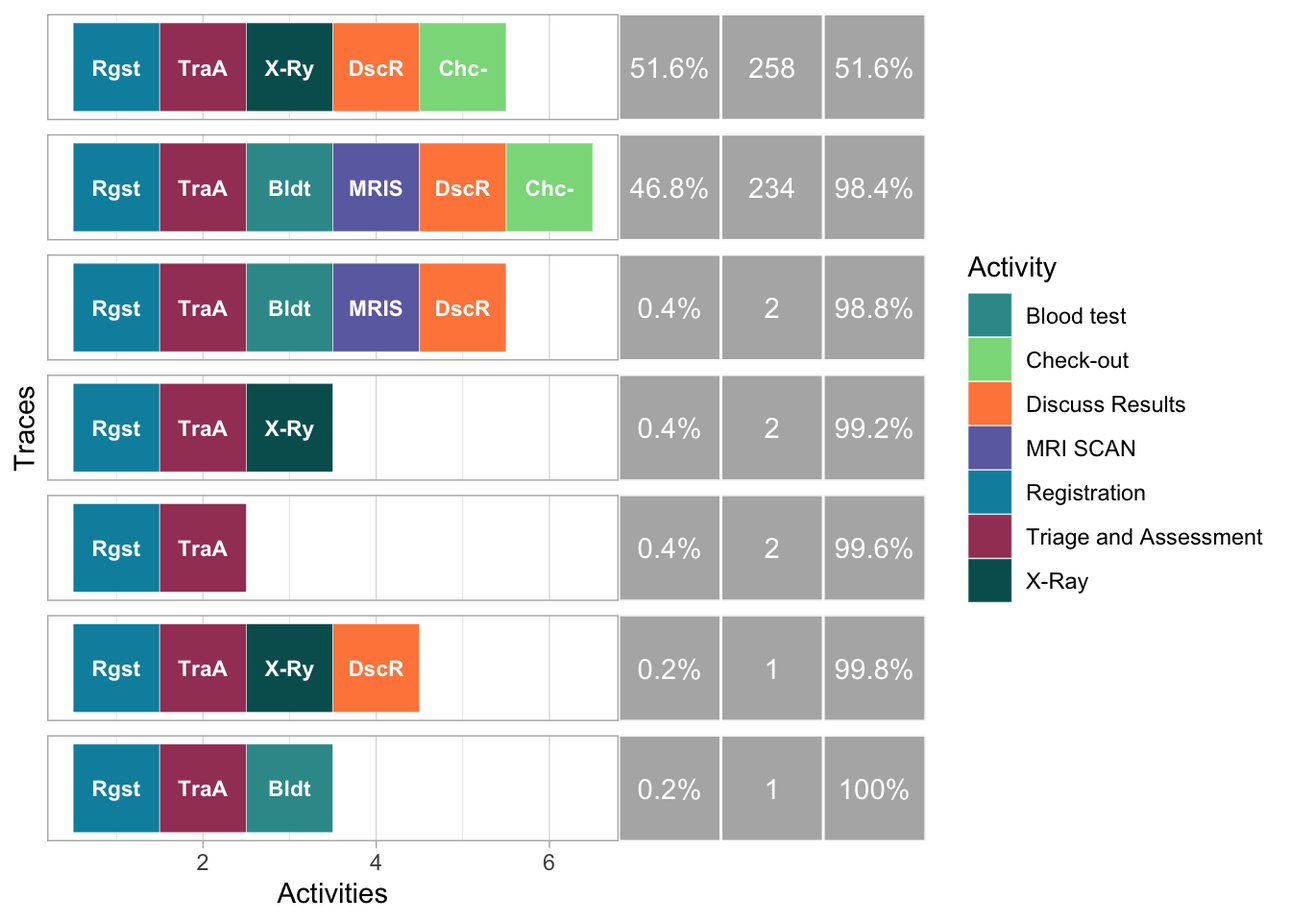
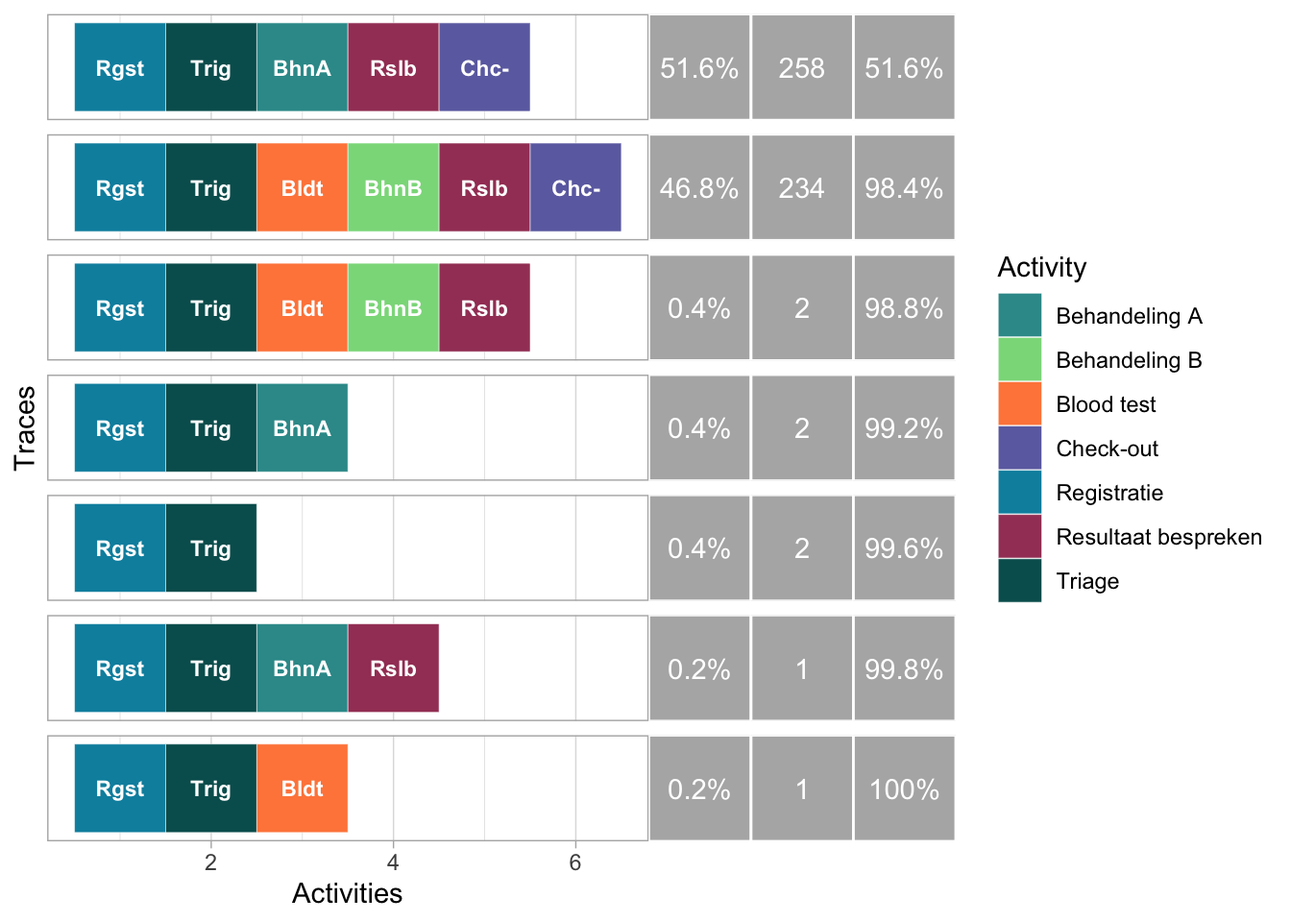
changed mri scan and x-ray to behandeling a and b

diff --git a/process-mining-story.html b/process-mining-story.html
@@ -2,7 +2,7 @@
 <html xmlns="http://www.w3.org/1999/xhtml" lang="en" xml:lang="en"><head>
 
 <meta charset="utf-8">
-<meta name="generator" content="quarto-1.3.353">
+<meta name="generator" content="quarto-1.3.450">
 
 <meta name="viewport" content="width=device-width, initial-scale=1.0, user-scalable=yes">
 
@@ -41,10 +41,28 @@ ul.task-list li input[type="checkbox"] {
 
 </head>
 
-<body class="fullcontent">
+<body>
 
 <div id="quarto-content" class="page-columns page-rows-contents page-layout-article">
-
+<div id="quarto-margin-sidebar" class="sidebar margin-sidebar">
+  <nav id="TOC" role="doc-toc" class="toc-active">
+    <h2 id="toc-title">Table of contents</h2>
+   
+  <ul>
+  <li><a href="#casus" id="toc-casus" class="nav-link active" data-scroll-target="#casus">Casus</a></li>
+  <li><a href="#analyse-met-behulp-van-process-mining" id="toc-analyse-met-behulp-van-process-mining" class="nav-link" data-scroll-target="#analyse-met-behulp-van-process-mining">Analyse met behulp van Process Mining</a>
+  <ul class="collapse">
+  <li><a href="#eisen" id="toc-eisen" class="nav-link" data-scroll-target="#eisen">Eisen</a></li>
+  <li><a href="#analyse" id="toc-analyse" class="nav-link" data-scroll-target="#analyse">Analyse</a></li>
+  <li><a href="#conformance-checking" id="toc-conformance-checking" class="nav-link" data-scroll-target="#conformance-checking">Conformance checking</a></li>
+  </ul></li>
+  <li><a href="#conclusie" id="toc-conclusie" class="nav-link" data-scroll-target="#conclusie">Conclusie</a>
+  <ul class="collapse">
+  <li><a href="#overige-toepassingen" id="toc-overige-toepassingen" class="nav-link" data-scroll-target="#overige-toepassingen">Overige toepassingen</a></li>
+  </ul></li>
+  </ul>
+</nav>
+</div>
 <main class="content" id="quarto-document-content">
 
 <header id="title-block-header" class="quarto-title-block default">
@@ -90,59 +108,53 @@ ul.task-list li input[type="checkbox"] {
 <p>Paul wil graag weten welke stappen worden ondernomen wanneer een patiënt op de eerste hulp belandt. Is er sprake van standaardroutes die patiënten volgen, zijn er onverwachte uitzonderingen? Wat is de meest gangbare route? Om hier inzicht in te krijgen, maken we gebruik van een process map. Deze visualiseert niet alleen het aantal patiënten dat een specifieke handeling ondergaat, maar geeft tevens de opeenvolging van handelingen weer. Zo verkrijgen we helderheid over de gebruikelijke gang van zaken en eventuele variaties in het proces.</p>
 <div class="cell">
 <div class="cell-output-display">
-<div class="grViz html-widget html-fill-item" id="htmlwidget-615307686efc645fae80" style="width:100%;height:464px;"></div>
-<script type="application/json" data-for="htmlwidget-615307686efc645fae80">{"x":{"diagram":"digraph {\n\ngraph [layout = \"dot\",\n       outputorder = \"edgesfirst\",\n       bgcolor = \"white\",\n       rankdir = \"LR\"]\n\nnode [fontname = \"Helvetica\",\n      fontsize = \"10\",\n      shape = \"circle\",\n      fixedsize = \"true\",\n      width = \"0.5\",\n      style = \"filled\",\n      fillcolor = \"aliceblue\",\n      color = \"gray70\",\n      fontcolor = \"gray50\"]\n\nedge [fontname = \"Helvetica\",\n     fontsize = \"8\",\n     weight = \"1.5\",\n     color = \"gray80\",\n     arrowsize = \"0.5\"]\n\n  \"1\" [label = \"End\", shape = \"circle\", style = \"rounded,filled\", fontcolor = \"brown4\", color = \"brown4\", tooltip = \"ARTIFICIAL_END\n100%\", penwidth = \"1.5\", fixedsize = \"FALSE\", fontname = \"Arial\", fontsize = \"10\", fillcolor = \"#FFFFFF\"] \n  \"2\" [label = \"Start\", shape = \"circle\", style = \"rounded,filled\", fontcolor = \"chartreuse4\", color = \"chartreuse4\", tooltip = \"ARTIFICIAL_START\n100%\", penwidth = \"1.5\", fixedsize = \"FALSE\", fontname = \"Arial\", fontsize = \"10\", fillcolor = \"#FFFFFF\"] \n  \"3\" [label = \"Blood test\n47.4%\", shape = \"rectangle\", style = \"rounded,filled\", fontcolor = \"black\", color = \"grey\", tooltip = \"Blood test\n47.4%\", penwidth = \"1.5\", fixedsize = \"FALSE\", fontname = \"Arial\", fontsize = \"10\", fillcolor = \"#ECE7F2\"] \n  \"4\" [label = \"Check-out\n98.4%\", shape = \"rectangle\", style = \"rounded,filled\", fontcolor = \"white\", color = \"grey\", tooltip = \"Check-out\n98.4%\", penwidth = \"1.5\", fixedsize = \"FALSE\", fontname = \"Arial\", fontsize = \"10\", fillcolor = \"#0570B0\"] \n  \"5\" [label = \"Discuss Results\n99%\", shape = \"rectangle\", style = \"rounded,filled\", fontcolor = \"white\", color = \"grey\", tooltip = \"Discuss Results\n99%\", penwidth = \"1.5\", fixedsize = \"FALSE\", fontname = \"Arial\", fontsize = \"10\", fillcolor = \"#0570B0\"] \n  \"6\" [label = \"MRI SCAN\n47.2%\", shape = \"rectangle\", style = \"rounded,filled\", fontcolor = \"black\", color = \"grey\", tooltip = \"MRI SCAN\n47.2%\", penwidth = \"1.5\", fixedsize = \"FALSE\", fontname = \"Arial\", fontsize = \"10\", fillcolor = \"#ECE7F2\"] \n  \"7\" [label = \"Registration\n100%\", shape = \"rectangle\", style = \"rounded,filled\", fontcolor = \"white\", color = \"grey\", tooltip = \"Registration\n100%\", penwidth = \"1.5\", fixedsize = \"FALSE\", fontname = \"Arial\", fontsize = \"10\", fillcolor = \"#0570B0\"] \n  \"8\" [label = \"Triage and Assessment\n100%\", shape = \"rectangle\", style = \"rounded,filled\", fontcolor = \"white\", color = \"grey\", tooltip = \"Triage and Assessment\n100%\", penwidth = \"1.5\", fixedsize = \"FALSE\", fontname = \"Arial\", fontsize = \"10\", fillcolor = \"#0570B0\"] \n  \"9\" [label = \"X-Ray\n52.2%\", shape = \"rectangle\", style = \"rounded,filled\", fontcolor = \"black\", color = \"grey\", tooltip = \"X-Ray\n52.2%\", penwidth = \"1.5\", fixedsize = \"FALSE\", fontname = \"Arial\", fontsize = \"10\", fillcolor = \"#ECE7F2\"] \n\"2\"->\"7\" [label = \"100%\", penwidth = \"5\", color = \"dodgerblue4\", fontname = \"Arial\", fontsize = \"10\", weight = \"1\", constraint = \"TRUE\"] \n\"3\"->\"1\" [label = \"0.2%\", penwidth = \"1.008\", color = \"dodgerblue4\", fontname = \"Arial\", fontsize = \"10\", weight = \"1\", constraint = \"TRUE\"] \n\"3\"->\"6\" [label = \"47.2%\", penwidth = \"2.888\", color = \"dodgerblue4\", fontname = \"Arial\", fontsize = \"10\", weight = \"1\", constraint = \"TRUE\"] \n\"4\"->\"1\" [label = \"98.4%\", penwidth = \"4.936\", color = \"dodgerblue4\", fontname = \"Arial\", fontsize = \"10\", weight = \"1\", constraint = \"TRUE\"] \n\"5\"->\"1\" [label = \"0.6%\", penwidth = \"1.024\", color = \"dodgerblue4\", fontname = \"Arial\", fontsize = \"10\", weight = \"1\", constraint = \"TRUE\"] \n\"5\"->\"4\" [label = \"98.4%\", penwidth = \"4.936\", color = \"dodgerblue4\", fontname = \"Arial\", fontsize = \"10\", weight = \"1\", constraint = \"TRUE\"] \n\"6\"->\"5\" [label = \"47.2%\", penwidth = \"2.888\", color = \"dodgerblue4\", fontname = \"Arial\", fontsize = \"10\", weight = \"1\", constraint = \"TRUE\"] \n\"7\"->\"8\" [label = \"100%\", penwidth = \"5\", color = \"dodgerblue4\", fontname = \"Arial\", fontsize = \"10\", weight = \"1\", constraint = \"TRUE\"] \n\"8\"->\"1\" [label = \"0.4%\", penwidth = \"1.016\", color = \"dodgerblue4\", fontname = \"Arial\", fontsize = \"10\", weight = \"1\", constraint = \"TRUE\"] \n\"8\"->\"3\" [label = \"47.4%\", penwidth = \"2.896\", color = \"dodgerblue4\", fontname = \"Arial\", fontsize = \"10\", weight = \"1\", constraint = \"TRUE\"] \n\"8\"->\"9\" [label = \"52.2%\", penwidth = \"3.088\", color = \"dodgerblue4\", fontname = \"Arial\", fontsize = \"10\", weight = \"1\", constraint = \"TRUE\"] \n\"9\"->\"1\" [label = \"0.4%\", penwidth = \"1.016\", color = \"dodgerblue4\", fontname = \"Arial\", fontsize = \"10\", weight = \"1\", constraint = \"TRUE\"] \n\"9\"->\"5\" [label = \"51.8%\", penwidth = \"3.072\", color = \"dodgerblue4\", fontname = \"Arial\", fontsize = \"10\", weight = \"1\", constraint = \"TRUE\"] \n}","config":{"engine":"dot","options":null}},"evals":[],"jsHooks":[]}</script>
+<div class="grViz html-widget html-fill-item" id="htmlwidget-6573e6e53d52da34f62b" style="width:100%;height:464px;"></div>
+<script type="application/json" data-for="htmlwidget-6573e6e53d52da34f62b">{"x":{"diagram":"digraph {\n\ngraph [layout = \"dot\",\n       outputorder = \"edgesfirst\",\n       bgcolor = \"white\",\n       rankdir = \"LR\"]\n\nnode [fontname = \"Helvetica\",\n      fontsize = \"10\",\n      shape = \"circle\",\n      fixedsize = \"true\",\n      width = \"0.5\",\n      style = \"filled\",\n      fillcolor = \"aliceblue\",\n      color = \"gray70\",\n      fontcolor = \"gray50\"]\n\nedge [fontname = \"Helvetica\",\n     fontsize = \"8\",\n     weight = \"1.5\",\n     color = \"gray80\",\n     arrowsize = \"0.5\"]\n\n  \"1\" [label = \"End\", shape = \"circle\", style = \"rounded,filled\", fontcolor = \"brown4\", color = \"brown4\", tooltip = \"ARTIFICIAL_END\n18.38%\", penwidth = \"1.5\", fixedsize = \"FALSE\", fontname = \"Arial\", fontsize = \"10\", fillcolor = \"#FFFFFF\"] \n  \"2\" [label = \"Start\", shape = \"circle\", style = \"rounded,filled\", fontcolor = \"chartreuse4\", color = \"chartreuse4\", tooltip = \"ARTIFICIAL_START\n18.38%\", penwidth = \"1.5\", fixedsize = \"FALSE\", fontname = \"Arial\", fontsize = \"10\", fillcolor = \"#FFFFFF\"] \n  \"3\" [label = \"Behandeling A\n9.59%\", shape = \"rectangle\", style = \"rounded,filled\", fontcolor = \"black\", color = \"grey\", tooltip = \"Behandeling A\n9.59%\", penwidth = \"1.5\", fixedsize = \"FALSE\", fontname = \"Arial\", fontsize = \"10\", fillcolor = \"#ECE7F2\"] \n  \"4\" [label = \"Behandeling B\n8.67%\", shape = \"rectangle\", style = \"rounded,filled\", fontcolor = \"black\", color = \"grey\", tooltip = \"Behandeling B\n8.67%\", penwidth = \"1.5\", fixedsize = \"FALSE\", fontname = \"Arial\", fontsize = \"10\", fillcolor = \"#ECE7F2\"] \n  \"5\" [label = \"Blood test\n8.71%\", shape = \"rectangle\", style = \"rounded,filled\", fontcolor = \"black\", color = \"grey\", tooltip = \"Blood test\n8.71%\", penwidth = \"1.5\", fixedsize = \"FALSE\", fontname = \"Arial\", fontsize = \"10\", fillcolor = \"#ECE7F2\"] \n  \"6\" [label = \"Check-out\n18.08%\", shape = \"rectangle\", style = \"rounded,filled\", fontcolor = \"white\", color = \"grey\", tooltip = \"Check-out\n18.08%\", penwidth = \"1.5\", fixedsize = \"FALSE\", fontname = \"Arial\", fontsize = \"10\", fillcolor = \"#0570B0\"] \n  \"7\" [label = \"Registratie\n18.38%\", shape = \"rectangle\", style = \"rounded,filled\", fontcolor = \"white\", color = \"grey\", tooltip = \"Registratie\n18.38%\", penwidth = \"1.5\", fixedsize = \"FALSE\", fontname = \"Arial\", fontsize = \"10\", fillcolor = \"#0570B0\"] \n  \"8\" [label = \"Resultaat bespreken\n18.19%\", shape = \"rectangle\", style = \"rounded,filled\", fontcolor = \"white\", color = \"grey\", tooltip = \"Resultaat bespreken\n18.19%\", penwidth = \"1.5\", fixedsize = \"FALSE\", fontname = \"Arial\", fontsize = \"10\", fillcolor = \"#0570B0\"] \n  \"9\" [label = \"Triage\n18.38%\", shape = \"rectangle\", style = \"rounded,filled\", fontcolor = \"white\", color = \"grey\", tooltip = \"Triage\n18.38%\", penwidth = \"1.5\", fixedsize = \"FALSE\", fontname = \"Arial\", fontsize = \"10\", fillcolor = \"#0570B0\"] \n\"2\"->\"7\" [label = \"100%\", penwidth = \"5\", color = \"dodgerblue4\", fontname = \"Arial\", fontsize = \"10\", weight = \"1\", constraint = \"TRUE\"] \n\"3\"->\"1\" [label = \"0.77%\", penwidth = \"1.03065134099617\", color = \"dodgerblue4\", fontname = \"Arial\", fontsize = \"10\", weight = \"1\", constraint = \"TRUE\"] \n\"3\"->\"8\" [label = \"99.23%\", penwidth = \"4.96934865900383\", color = \"dodgerblue4\", fontname = \"Arial\", fontsize = \"10\", weight = \"1\", constraint = \"TRUE\"] \n\"4\"->\"8\" [label = \"100%\", penwidth = \"5\", color = \"dodgerblue4\", fontname = \"Arial\", fontsize = \"10\", weight = \"1\", constraint = \"TRUE\"] \n\"5\"->\"1\" [label = \"0.42%\", penwidth = \"1.0168776371308\", color = \"dodgerblue4\", fontname = \"Arial\", fontsize = \"10\", weight = \"1\", constraint = \"TRUE\"] \n\"5\"->\"4\" [label = \"99.58%\", penwidth = \"4.9831223628692\", color = \"dodgerblue4\", fontname = \"Arial\", fontsize = \"10\", weight = \"1\", constraint = \"TRUE\"] \n\"6\"->\"1\" [label = \"100%\", penwidth = \"5\", color = \"dodgerblue4\", fontname = \"Arial\", fontsize = \"10\", weight = \"1\", constraint = \"TRUE\"] \n\"7\"->\"9\" [label = \"100%\", penwidth = \"5\", color = \"dodgerblue4\", fontname = \"Arial\", fontsize = \"10\", weight = \"1\", constraint = \"TRUE\"] \n\"8\"->\"1\" [label = \"0.61%\", penwidth = \"1.02424242424242\", color = \"dodgerblue4\", fontname = \"Arial\", fontsize = \"10\", weight = \"1\", constraint = \"TRUE\"] \n\"8\"->\"6\" [label = \"99.39%\", penwidth = \"4.97575757575758\", color = \"dodgerblue4\", fontname = \"Arial\", fontsize = \"10\", weight = \"1\", constraint = \"TRUE\"] \n\"9\"->\"1\" [label = \"0.4%\", penwidth = \"1.016\", color = \"dodgerblue4\", fontname = \"Arial\", fontsize = \"10\", weight = \"1\", constraint = \"TRUE\"] \n\"9\"->\"3\" [label = \"52.2%\", penwidth = \"3.088\", color = \"dodgerblue4\", fontname = \"Arial\", fontsize = \"10\", weight = \"1\", constraint = \"TRUE\"] \n\"9\"->\"5\" [label = \"47.4%\", penwidth = \"2.896\", color = \"dodgerblue4\", fontname = \"Arial\", fontsize = \"10\", weight = \"1\", constraint = \"TRUE\"] \n}","config":{"engine":"dot","options":null}},"evals":[],"jsHooks":[]}</script>
 </div>
 </div>
 <p><strong>Figuur 1. Process map met het percentage patiënten dat een bepaalde handeling ondergaat</strong></p>
-<p>Uit deze process map valt direct veel informatie te halen. We zien dat iedere patiënt geregistreerd wordt en triage en assessment ondergaat. Na de triage blijkt dat een patiënt ofwel een bloedtest en een MRI-scan krijgt, of een X-ray ondergaat. Opvallend voor Paul is dat ongeveer evenveel mensen een MRI-scan als een X-ray krijgen, in tegenstelling tot wat hij had verwacht. MRI scans zouden alleen ingezte moeten worden wanneer strict noodzakelijk, aangezien een MRI-scan aanzienlijk duurder is voor het ziekenhuis en ook meer tijd kost. Nadat Paul dit bespreekt met zijn collega’s bij Triage en Assessment, ontdekt hij dat de X-ray afdeling onderbezet is, terwijl het op de MRI-afdeling doorgaans rustiger is. Bovendien wordt er geklaagd over de kwaliteit van het X-ray apparaat. Door de patiënten te verdelen over de Xray en MRI afdeling, probeerden zijn collegas de wachttijd al te beperken.</p>
+<p>Uit deze process map valt direct veel informatie te halen. We zien dat iedere patiënt geregistreerd wordt en triage ondergaat. Na de triage blijkt dat een patiënt ofwel een bloedtest en behandeling A krijgt, of behandeling B. Opvallend voor Paul is dat ongeveer evenveel mensen behandeling A als behandeling B krijgen, in tegenstelling tot wat hij had verwacht. Behandeling B zou alleen ingezet moeten worden wanneer strict noodzakelijk, aangezien Behandeling B aanzienlijk duurder is voor het ziekenhuis en ook meer tijd kost. Nadat Paul dit bespreekt met zijn collega’s, ontdekt hij dat afdeling van Behandeling A onderbezet is, terwijl het op de afdeling van Behandeling B doorgaans rustiger is. Bovendien wordt er geklaagd over de kwaliteit van de medische apparatuur op de afdeling van Behandeling A. Door de patiënten te verdelen over de afdelingen van Behandeling A en B, probeerden zijn collega’s de wachttijd al te beperken.</p>
 <p>Nu Paul een beeld heeft van de volgorde en frequentie van de activiteiten op de eerste hulp, is hij benieuwd naar welke activiteiten de meeste tijd in beslag nemen en op welke activiteiten patiënten lang moeten wachten. Om deze informatie te verkrijgen, maken we gebruik van een process map waarin de gemiddelde duur van de activiteiten wordt weergegeven.</p>
 <div class="cell">
 <div class="cell-output-display">
-<div class="grViz html-widget html-fill-item" id="htmlwidget-aebe7d86149e7d14c312" style="width:100%;height:464px;"></div>
-<script type="application/json" data-for="htmlwidget-aebe7d86149e7d14c312">{"x":{"diagram":"digraph {\n\ngraph [layout = \"dot\",\n       outputorder = \"edgesfirst\",\n       bgcolor = \"white\",\n       rankdir = \"LR\"]\n\nnode [fontname = \"Helvetica\",\n      fontsize = \"10\",\n      shape = \"circle\",\n      fixedsize = \"true\",\n      width = \"0.5\",\n      style = \"filled\",\n      fillcolor = \"aliceblue\",\n      color = \"gray70\",\n      fontcolor = \"gray50\"]\n\nedge [fontname = \"Helvetica\",\n     fontsize = \"8\",\n     weight = \"1.5\",\n     color = \"gray80\",\n     arrowsize = \"0.5\"]\n\n  \"1\" [label = \"End\", shape = \"circle\", style = \"rounded,filled\", fontcolor = \"brown4\", color = \"brown4\", tooltip = \"ARTIFICIAL_END\n0 hours\", penwidth = \"1.5\", fixedsize = \"FALSE\", fontname = \"Arial\", fontsize = \"10\", fillcolor = \"#FFFFFF\"] \n  \"2\" [label = \"Start\", shape = \"circle\", style = \"rounded,filled\", fontcolor = \"chartreuse4\", color = \"chartreuse4\", tooltip = \"ARTIFICIAL_START\n0 hours\", penwidth = \"1.5\", fixedsize = \"FALSE\", fontname = \"Arial\", fontsize = \"10\", fillcolor = \"#FFFFFF\"] \n  \"3\" [label = \"Blood test\n5.54 hours\n(237)\", shape = \"rectangle\", style = \"rounded,filled\", fontcolor = \"black\", color = \"grey\", tooltip = \"Blood test\n5.54 hours\", penwidth = \"1.5\", fixedsize = \"FALSE\", fontname = \"Arial\", fontsize = \"10\", fillcolor = \"#FCBBA1\"] \n  \"4\" [label = \"Check-out\n2.06 hours\n(492)\", shape = \"rectangle\", style = \"rounded,filled\", fontcolor = \"black\", color = \"grey\", tooltip = \"Check-out\n2.06 hours\", penwidth = \"1.5\", fixedsize = \"FALSE\", fontname = \"Arial\", fontsize = \"10\", fillcolor = \"#FFF5F0\"] \n  \"5\" [label = \"Discuss Results\n2.78 hours\n(495)\", shape = \"rectangle\", style = \"rounded,filled\", fontcolor = \"black\", color = \"grey\", tooltip = \"Discuss Results\n2.78 hours\", penwidth = \"1.5\", fixedsize = \"FALSE\", fontname = \"Arial\", fontsize = \"10\", fillcolor = \"#FEE0D2\"] \n  \"6\" [label = \"MRI SCAN\n4.15 hours\n(236)\", shape = \"rectangle\", style = \"rounded,filled\", fontcolor = \"black\", color = \"grey\", tooltip = \"MRI SCAN\n4.15 hours\", penwidth = \"1.5\", fixedsize = \"FALSE\", fontname = \"Arial\", fontsize = \"10\", fillcolor = \"#FEE0D2\"] \n  \"7\" [label = \"Registration\n2.75 hours\n(500)\", shape = \"rectangle\", style = \"rounded,filled\", fontcolor = \"black\", color = \"grey\", tooltip = \"Registration\n2.75 hours\", penwidth = \"1.5\", fixedsize = \"FALSE\", fontname = \"Arial\", fontsize = \"10\", fillcolor = \"#FEE0D2\"] \n  \"8\" [label = \"Triage and Assessment\n13.11 hours\n(500)\", shape = \"rectangle\", style = \"rounded,filled\", fontcolor = \"white\", color = \"grey\", tooltip = \"Triage and Assessment\n13.11 hours\", penwidth = \"1.5\", fixedsize = \"FALSE\", fontname = \"Arial\", fontsize = \"10\", fillcolor = \"#99000D\"] \n  \"9\" [label = \"X-Ray\n4.85 hours\n(261)\", shape = \"rectangle\", style = \"rounded,filled\", fontcolor = \"black\", color = \"grey\", tooltip = \"X-Ray\n4.85 hours\", penwidth = \"1.5\", fixedsize = \"FALSE\", fontname = \"Arial\", fontsize = \"10\", fillcolor = \"#FCBBA1\"] \n\"2\"->\"7\" [label = \" \n (500)\", penwidth = \"1\", color = \"red4\", fontname = \"Arial\", fontsize = \"10\", weight = \"1\", constraint = \"TRUE\"] \n\"3\"->\"1\" [label = \" \n (1)\", penwidth = \"1\", color = \"red4\", fontname = \"Arial\", fontsize = \"10\", weight = \"1\", constraint = \"TRUE\"] \n\"3\"->\"6\" [label = \"25.4 hours\n (236)\", penwidth = \"2.92128602061254\", color = \"red4\", fontname = \"Arial\", fontsize = \"10\", weight = \"1\", constraint = \"TRUE\"] \n\"4\"->\"1\" [label = \" \n (492)\", penwidth = \"1\", color = \"red4\", fontname = \"Arial\", fontsize = \"10\", weight = \"1\", constraint = \"TRUE\"] \n\"5\"->\"1\" [label = \" \n (3)\", penwidth = \"1\", color = \"red4\", fontname = \"Arial\", fontsize = \"10\", weight = \"1\", constraint = \"TRUE\"] \n\"5\"->\"4\" [label = \"31.56 hours\n (492)\", penwidth = \"3.38722754249116\", color = \"red4\", fontname = \"Arial\", fontsize = \"10\", weight = \"1\", constraint = \"TRUE\"] \n\"6\"->\"5\" [label = \"21.36 hours\n (236)\", penwidth = \"2.61555345954038\", color = \"red4\", fontname = \"Arial\", fontsize = \"10\", weight = \"1\", constraint = \"TRUE\"] \n\"7\"->\"8\" [label = \"12.92 hours\n (500)\", penwidth = \"1.97714615665754\", color = \"red4\", fontname = \"Arial\", fontsize = \"10\", weight = \"1\", constraint = \"TRUE\"] \n\"8\"->\"1\" [label = \" \n (2)\", penwidth = \"1\", color = \"red4\", fontname = \"Arial\", fontsize = \"10\", weight = \"1\", constraint = \"TRUE\"] \n\"8\"->\"3\" [label = \"50.51 hours\n (237)\", penwidth = \"4.82005292469787\", color = \"red4\", fontname = \"Arial\", fontsize = \"10\", weight = \"1\", constraint = \"TRUE\"] \n\"8\"->\"9\" [label = \"52.89 hours\n (261)\", penwidth = \"5\", color = \"red4\", fontname = \"Arial\", fontsize = \"10\", weight = \"1\", constraint = \"TRUE\"] \n\"9\"->\"1\" [label = \" \n (2)\", penwidth = \"1\", color = \"red4\", fontname = \"Arial\", fontsize = \"10\", weight = \"1\", constraint = \"TRUE\"] \n\"9\"->\"5\" [label = \"28.73 hours\n (259)\", penwidth = \"3.17286123967841\", color = \"red4\", fontname = \"Arial\", fontsize = \"10\", weight = \"1\", constraint = \"TRUE\"] \n}","config":{"engine":"dot","options":null}},"evals":[],"jsHooks":[]}</script>
+<div class="grViz html-widget html-fill-item" id="htmlwidget-768d9043b423081a92a9" style="width:100%;height:464px;"></div>
+<script type="application/json" data-for="htmlwidget-768d9043b423081a92a9">{"x":{"diagram":"digraph {\n\ngraph [layout = \"dot\",\n       outputorder = \"edgesfirst\",\n       bgcolor = \"white\",\n       rankdir = \"LR\"]\n\nnode [fontname = \"Helvetica\",\n      fontsize = \"10\",\n      shape = \"circle\",\n      fixedsize = \"true\",\n      width = \"0.5\",\n      style = \"filled\",\n      fillcolor = \"aliceblue\",\n      color = \"gray70\",\n      fontcolor = \"gray50\"]\n\nedge [fontname = \"Helvetica\",\n     fontsize = \"8\",\n     weight = \"1.5\",\n     color = \"gray80\",\n     arrowsize = \"0.5\"]\n\n  \"1\" [label = \"End\", shape = \"circle\", style = \"rounded,filled\", fontcolor = \"brown4\", color = \"brown4\", tooltip = \"ARTIFICIAL_END\n0 hours\", penwidth = \"1.5\", fixedsize = \"FALSE\", fontname = \"Arial\", fontsize = \"10\", fillcolor = \"#FFFFFF\"] \n  \"2\" [label = \"Start\", shape = \"circle\", style = \"rounded,filled\", fontcolor = \"chartreuse4\", color = \"chartreuse4\", tooltip = \"ARTIFICIAL_START\n0 hours\", penwidth = \"1.5\", fixedsize = \"FALSE\", fontname = \"Arial\", fontsize = \"10\", fillcolor = \"#FFFFFF\"] \n  \"3\" [label = \"Behandeling A\n4.85 hours\n(261)\", shape = \"rectangle\", style = \"rounded,filled\", fontcolor = \"black\", color = \"grey\", tooltip = \"Behandeling A\n4.85 hours\", penwidth = \"1.5\", fixedsize = \"FALSE\", fontname = \"Arial\", fontsize = \"10\", fillcolor = \"#FCBBA1\"] \n  \"4\" [label = \"Behandeling B\n4.15 hours\n(236)\", shape = \"rectangle\", style = \"rounded,filled\", fontcolor = \"black\", color = \"grey\", tooltip = \"Behandeling B\n4.15 hours\", penwidth = \"1.5\", fixedsize = \"FALSE\", fontname = \"Arial\", fontsize = \"10\", fillcolor = \"#FEE0D2\"] \n  \"5\" [label = \"Blood test\n5.54 hours\n(237)\", shape = \"rectangle\", style = \"rounded,filled\", fontcolor = \"black\", color = \"grey\", tooltip = \"Blood test\n5.54 hours\", penwidth = \"1.5\", fixedsize = \"FALSE\", fontname = \"Arial\", fontsize = \"10\", fillcolor = \"#FCBBA1\"] \n  \"6\" [label = \"Check-out\n2.06 hours\n(492)\", shape = \"rectangle\", style = \"rounded,filled\", fontcolor = \"black\", color = \"grey\", tooltip = \"Check-out\n2.06 hours\", penwidth = \"1.5\", fixedsize = \"FALSE\", fontname = \"Arial\", fontsize = \"10\", fillcolor = \"#FFF5F0\"] \n  \"7\" [label = \"Registratie\n2.75 hours\n(500)\", shape = \"rectangle\", style = \"rounded,filled\", fontcolor = \"black\", color = \"grey\", tooltip = \"Registratie\n2.75 hours\", penwidth = \"1.5\", fixedsize = \"FALSE\", fontname = \"Arial\", fontsize = \"10\", fillcolor = \"#FEE0D2\"] \n  \"8\" [label = \"Resultaat bespreken\n2.78 hours\n(495)\", shape = \"rectangle\", style = \"rounded,filled\", fontcolor = \"black\", color = \"grey\", tooltip = \"Resultaat bespreken\n2.78 hours\", penwidth = \"1.5\", fixedsize = \"FALSE\", fontname = \"Arial\", fontsize = \"10\", fillcolor = \"#FEE0D2\"] \n  \"9\" [label = \"Triage\n13.11 hours\n(500)\", shape = \"rectangle\", style = \"rounded,filled\", fontcolor = \"white\", color = \"grey\", tooltip = \"Triage\n13.11 hours\", penwidth = \"1.5\", fixedsize = \"FALSE\", fontname = \"Arial\", fontsize = \"10\", fillcolor = \"#99000D\"] \n\"2\"->\"7\" [label = \" \n (500)\", penwidth = \"1\", color = \"red4\", fontname = \"Arial\", fontsize = \"10\", weight = \"1\", constraint = \"TRUE\"] \n\"3\"->\"1\" [label = \" \n (2)\", penwidth = \"1\", color = \"red4\", fontname = \"Arial\", fontsize = \"10\", weight = \"1\", constraint = \"TRUE\"] \n\"3\"->\"8\" [label = \"28.73 hours\n (259)\", penwidth = \"3.17286123967841\", color = \"red4\", fontname = \"Arial\", fontsize = \"10\", weight = \"1\", constraint = \"TRUE\"] \n\"4\"->\"8\" [label = \"21.36 hours\n (236)\", penwidth = \"2.61555345954038\", color = \"red4\", fontname = \"Arial\", fontsize = \"10\", weight = \"1\", constraint = \"TRUE\"] \n\"5\"->\"1\" [label = \" \n (1)\", penwidth = \"1\", color = \"red4\", fontname = \"Arial\", fontsize = \"10\", weight = \"1\", constraint = \"TRUE\"] \n\"5\"->\"4\" [label = \"25.4 hours\n (236)\", penwidth = \"2.92128602061254\", color = \"red4\", fontname = \"Arial\", fontsize = \"10\", weight = \"1\", constraint = \"TRUE\"] \n\"6\"->\"1\" [label = \" \n (492)\", penwidth = \"1\", color = \"red4\", fontname = \"Arial\", fontsize = \"10\", weight = \"1\", constraint = \"TRUE\"] \n\"7\"->\"9\" [label = \"12.92 hours\n (500)\", penwidth = \"1.97714615665754\", color = \"red4\", fontname = \"Arial\", fontsize = \"10\", weight = \"1\", constraint = \"TRUE\"] \n\"8\"->\"1\" [label = \" \n (3)\", penwidth = \"1\", color = \"red4\", fontname = \"Arial\", fontsize = \"10\", weight = \"1\", constraint = \"TRUE\"] \n\"8\"->\"6\" [label = \"31.56 hours\n (492)\", penwidth = \"3.38722754249116\", color = \"red4\", fontname = \"Arial\", fontsize = \"10\", weight = \"1\", constraint = \"TRUE\"] \n\"9\"->\"1\" [label = \" \n (2)\", penwidth = \"1\", color = \"red4\", fontname = \"Arial\", fontsize = \"10\", weight = \"1\", constraint = \"TRUE\"] \n\"9\"->\"3\" [label = \"52.89 hours\n (261)\", penwidth = \"5\", color = \"red4\", fontname = \"Arial\", fontsize = \"10\", weight = \"1\", constraint = \"TRUE\"] \n\"9\"->\"5\" [label = \"50.51 hours\n (237)\", penwidth = \"4.82005292469787\", color = \"red4\", fontname = \"Arial\", fontsize = \"10\", weight = \"1\", constraint = \"TRUE\"] \n}","config":{"engine":"dot","options":null}},"evals":[],"jsHooks":[]}</script>
 </div>
 </div>
 <p><strong>Figuur 2. Process map met de gemiddelde duur van de handelingen</strong></p>
-<!-- daarnaast is het ook mogelijk om de duur van de activiteiten naast elkaar weer te geven in boxplots: -->
-<!-- ```{r, echo = FALSE} -->
-<!-- patients %>%  -->
-<!--     processing_time("activity") %>% -->
-<!--     plot -->
-<!-- ``` -->
-<p><img src="images/Doctor-bro.svg" style="float:right;" height="300"> Paul merkt direct op dat Triage en Assessment de meeste tijd in beslag nemen, wat in lijn is met zijn verwachtingen. Het is immers tijdsintensief een patiënt te spreken en te beoordelen wat er aan de hand kan zijn. Wat echter opvallend is, is dat een X-ray gemiddeld nog net iets langer duurt dan een MRI-scan, terwijl normaal gesproken een MRI-scan langer duurt. Zijn collega’s die verantwoordelijk zijn voor de X-rays geven aan dat de X-ray machine aanzienlijk verouderd is, wat resulteert in aanzienlijke vertraging bij het maken van een foto, maar ook in het beoordelen van de foto.</p>
+<p><img src="images/Doctor-bro.svg" style="float:right;" height="300"> Paul merkt direct op dat triage de meeste tijd in beslag neemt, wat in lijn is met zijn verwachtingen. Het is immers tijdsintensief een patiënt te spreken en te beoordelen wat er aan de hand kan zijn. Wat echter opvallend is, is dat Behandeling A gemiddeld nog net iets langer duurt dan Behandeling B, terwijl normaal gesproken Behandeling B langer duurt. Zijn collega’s die verantwoordelijk zijn voor Behandeling A geven aan dat de medische apparatuur verouderd is, wat resulteert in aanzienlijke vertraging.</p>
 <p>Naast de process map zijn er nog andere methoden om inzicht te krijgen in de processen, zoals met een zogenaamde trace explorer:</p>
 <div class="cell">
 <div class="cell-output-display">
-<p><img src="process-mining-story_files/figure-html/unnamed-chunk-4-1.png" class="img-fluid" width="672"></p>
+<p><img src="process-mining-story_files/figure-html/unnamed-chunk-5-1.png" class="img-fluid" width="672"></p>
 </div>
 </div>
 <p><strong>Figuur 3. Trace Explorer</strong></p>
 <p>Elk blokje in de visualisatie vertegenwoordigt een specifieke activiteit, waarbij de volgorde van de blokjes de opeenvolging van de activiteiten aangeeft. Een specifieke reeks activiteiten wordt aangeduid als een ‘trace’. Aan de rechterkant wordt aangegeven hoe vaak deze trace voorkomt. Opvallend is dat de activiteiten niet altijd worden afgesloten met een check-out (het lichtgroene blokje), wat tegen de verwachtingen van Paul ingaat.</p>
-<p>Na onderzoek ontdekt Paul dat patiënten die haast hadden en niet wilden wachten op de vervolgstappen en check-out, geen check-out hadden. Dit wijst op een lacune in de administratie. Dit vormt voor Paul nog meer motivatie om de wachttijden in het ziekenhuis te verbeteren.</p>
+<p>Na onderzoek ontdekt Paul dat patiënten die geen check-out hadden, haast hadden en niet wilden wachten op de vervolgstappen omdat ze de wachttijd te lang vonden. Dit vormt voor Paul nog meer motivatie om de wachttijden in het ziekenhuis te verbeteren.</p>
 </section>
 <section id="conformance-checking" class="level3">
 <h3 class="anchored" data-anchor-id="conformance-checking">Conformance checking</h3>
 <p>In een process zitten vaak bepaalde regels die gevolgd moeten worden, en waar maar met een bepaald percentage van afgeweken mag worden. Dit kunnen we snel analyseren. Hier een paar voorbeelden op de eerste hulp:</p>
 <ul>
-<li>Voordat een MRI scan wordt afgenomen moet er altijd een bloedtest worden gedaan. Dit blijkt in dit geval voor 100% van de patiënten te kloppen.</li>
-<li>Of zoals bovengenoemd, het hele process moet altijd afgerond worden met een checkout. Dit blijkt voor 98.6% van de patiënten te kloppen.</li>
-<li>Een Xray of MRI scan gebeurt maar 1 keer in het proces. Dit is in 100% van de patiënten het geval.</li>
+<li>Voordat Behandeling B wordt uitgevoerd moet er altijd een bloedtest worden gedaan. Dit blijkt in dit geval voor 100% van de patiënten te kloppen.</li>
+<li>Het hele process moet altijd afgerond worden met een checkout. Dit blijkt voor 98.6% van de patiënten te kloppen.</li>
+<li>Behandeling A of B vindt altijd maar 1 keer in het proces plaats. Dit is in 100% van de patiënten het geval.</li>
 </ul>
 </section>
 </section>
 <section id="conclusie" class="level2">
 <h2 class="anchored" data-anchor-id="conclusie">Conclusie</h2>
-<p><img src="images/Self%20confidence-bro.svg" style="float:left;" height="250"> Na aanleiding van de resultaten verkregen door middel van Processmining, heeft Paul besloten te investeren in een nieuw X-ray apparaat en te onderzoeken welke collega’s op de MRI ook taken op de X-ray afdeling kunnen overnemen. Het resultaat is opmerkelijk: de wachttijd voor patiënten neemt aanzienlijk af, en bovendien krijgen de patiënten nu de behandeling die daadwerkelijk nodig is (namelijk een X-ray in plaats van een MRI). Dit leidt tot tevredenheid bij zowel de patiënten als de werknemers, en natuurlijk Paul zelf.</p>
+<p><img src="images/Self%20confidence-bro.svg" style="float:left;" height="250"> Na aanleiding van de resultaten verkregen door middel van Processmining, heeft Paul besloten te investeren in nieuwe medische apparatuur en te onderzoeken welke collega’s op de afdeling van Behandeling B ook taken op de afdeling van Behandeling A kunnen overnemen. Het resultaat is opmerkelijk: de wachttijd voor patiënten neemt aanzienlijk af, en bovendien krijgen de patiënten nu de behandeling die daadwerkelijk nodig is (namelijk Behandeling A in plaats van Behandeling B). Dit leidt tot tevredenheid bij zowel de patiënten als de werknemers, en natuurlijk Paul zelf.</p>
 <p><br><br></p>
 <p>Het is belangrijk op te merken dat deze casus fictief is en de realiteit vaak complexere processen met zich meebrengt. Dit voorbeeld illustreerd hoe processmining kan helpen bij het identificeren van processen en knelpunten, en hoe deze informatie kan helpen om processen te verbeteren, en daarmee tevredenheid van de klant, en misschien wel de uitkomst van behandelingen. In dit geval hebben we een voorbeeld genomen in het ziekenhuis, maar kan bij allerlei bedrijfsprocessen van pas komen.</p>
 <section id="overige-toepassingen" class="level3">
 <h3 class="anchored" data-anchor-id="overige-toepassingen">Overige toepassingen</h3>
 <p>Process mining kan ook helpen om andere gegevens te begrijpen, bijvoorbeeld:</p>
 <ul>
-<li>Heeft het process dat de patiënt doorloopt effect op de klant tevredenheid?</li>
-<li>Heeft het process dat de patiënt doorloopt effect op de uitkomst van de behandeling?</li>
-<li>Kunnen we voorspellen wat de uitkomst van een behandeling is op basis van het process dat de patiënt doorlopene heeft?</li>
+<li>Heeft het proces dat de patiënt doorloopt effect op de klanttevredenheid?</li>
+<li>Heeft het proces dat de patiënt doorloopt effect op de uitkomst van de behandeling?</li>
+<li>Kunnen we voorspellen wat de uitkomst van een behandeling is op basis van het proces dat de patiënt doorlopen heeft?</li>
 </ul>
 </section>
 </section>
